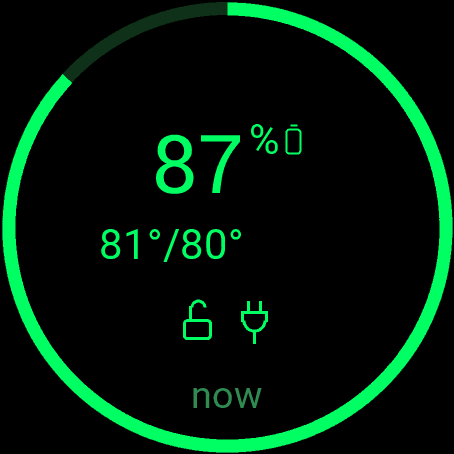
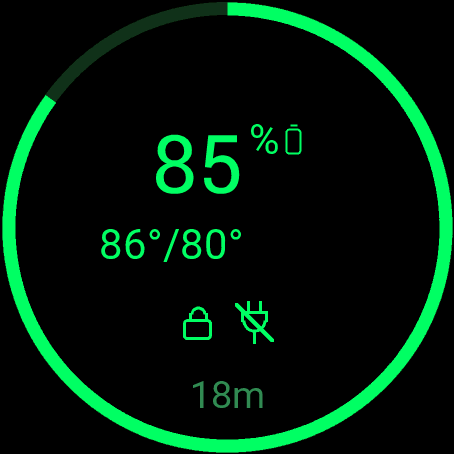
Main screen always shows the plug state, like the glance
The plug icon is now always drawn: slashed when unplugged, plain when plugged in, a bolt in its place while charging.
The rule lives in Charge.plug and is shared with the glance. Climate still shows only while on. Fixes #31.

diff --git a/README.md b/README.md
@@ -34,8 +34,8 @@ The fenix 7 and Venu X1 are tentative: treat them as untested until someone runs
     ring, number and icon are green from 50%, yellow from 25%, orange from 10% and red below that.
   - **Temperatures.** Under the number, `21°/14°` is the cabin and the outside air temperature, in the watch's units
     (`--` for one the car did not report, nothing at all if it reported neither).
-  - **State icons**, shown only when they apply: a closed or open padlock (locked or unlocked), a plug when plugged
-    in, a bolt beside it while charging, and wavy lines while climate is on.
+  - **State icons**: a closed or open padlock (locked or unlocked), and a plug (slashed when unplugged, a bolt in its
+    place while charging), as in the glance. Wavy lines are added only while climate is on.
   - **Bottom line.** How old the car's data is (for example `2m`), or what is in progress ("Unlocking...") or an
     error. The car only reports while awake, so after 30 minutes the whole screen dims and the age turns amber; that is
     normal, not an error.
@@ -67,8 +67,8 @@ slower, and don't read the difference between those two runs as meaningful.
   <img src="docs/images/watch-glance.png" width="200"
        alt="Glance: 87% charge with battery, open padlock and plug icons">
   <img src="docs/images/watch-main.png" width="200"
-       alt="Main screen: a ring and 87% charge, 81 and 80 degree cabin and outside temperatures, open padlock and
-       plugged in icons, and the data age of now">
+       alt="Main screen: a ring and 85% charge, 86 and 80 degree cabin and outside temperatures, closed padlock and
+       unplugged icons, and the data age of 18m">
   <img src="docs/images/watch-actions.png" alt="Actions: lock, climate, refresh and a small info button" width="200">
   <img src="docs/images/watch-info.png" alt="Info: when the car last reported and when the phone last updated"
        width="200">
